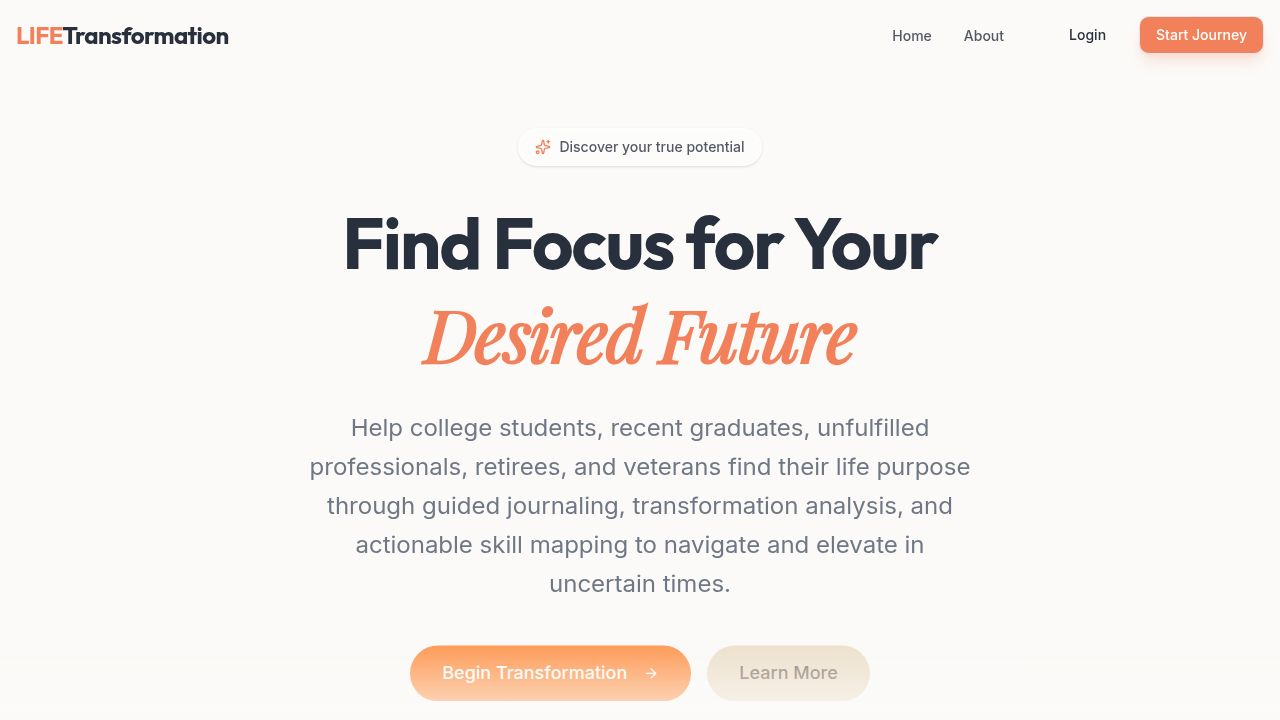
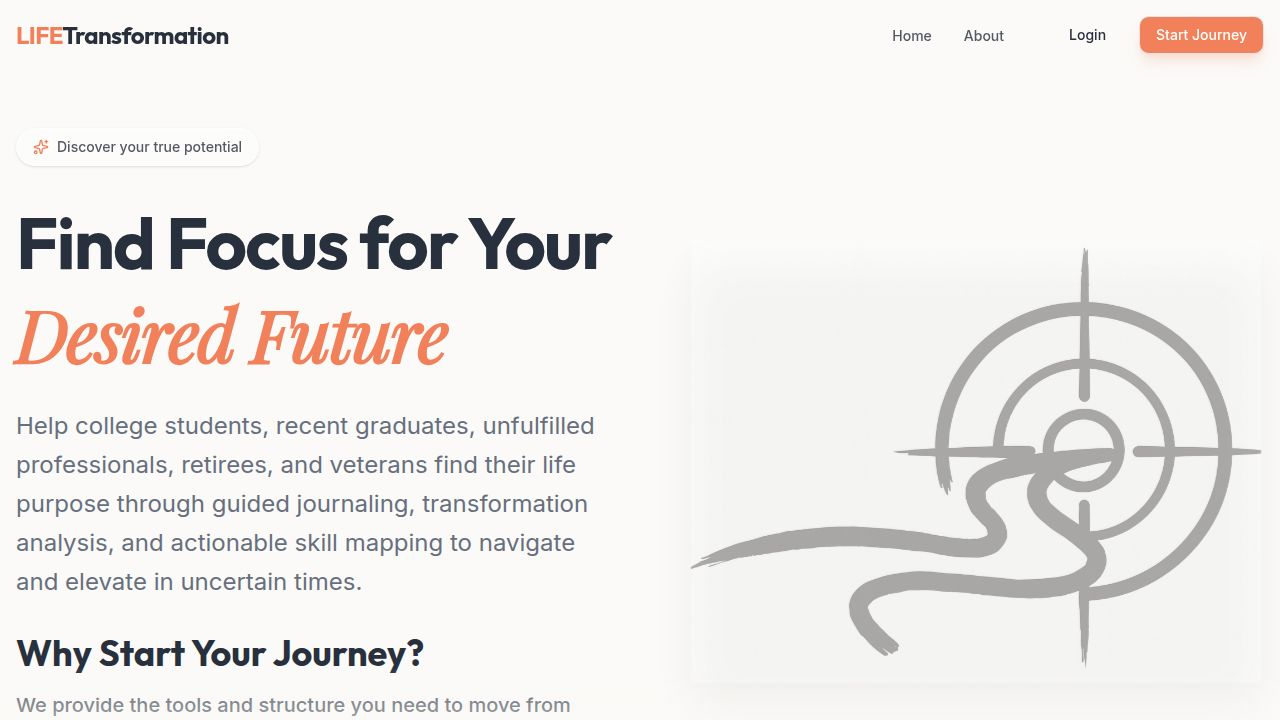
Add image to the right of the "Find focus for your Desired future" section
Update the hero section to a two-column layout, placing the new image to the right of the existing text content and ensuring proper vertical alignment.

Replit-Commit-Author: Agent
Replit-Commit-Session-Id: 2f27e978-f5d9-495f-af94-c9a188f07dc2
Replit-Commit-Checkpoint-Type: full_checkpoint
Replit-Commit-Event-Id: c009f03a-cdc6-4d68-bc0a-51d650e34104
Replit-Commit-Screenshot-Url: https://storage.googleapis.com/screenshot-production-us-central1/e830f26d-e299-42ff-93b1-da7f363f46a7/2f27e978-f5d9-495f-af94-c9a188f07dc2/bsSmAo3
Replit-Helium-Checkpoint-Created: true

diff --git a/client/src/components/hero.tsx b/client/src/components/hero.tsx
@@ -3,11 +3,12 @@ import { motion } from "framer-motion";
 import { ArrowRight, Sparkles } from "lucide-react";
 import { Link } from "wouter";
 import heroBg from "@assets/generated_images/abstract_sunrise_gradient_background_for_hero_section.png";
+import targetImage from "@assets/frontpagepath-png_1765159562805.png";
 import { cn } from "@/lib/utils";
 
 export function Hero() {
   return (
-    <section className="relative flex items-center pt-32 pb-0 overflow-hidden">
+    <section className="relative flex items-center pt-32 pb-0 overflow-hidden min-h-[90vh]">
       {/* Background */}
       <div className="absolute inset-0 -z-10">
         <img
@@ -19,56 +20,72 @@ export function Hero() {
       </div>
 
       <div className="container mx-auto px-4 relative z-10">
-        <div className="max-w-4xl mx-auto text-center">
-          <motion.div
-            initial={{ opacity: 0, y: 20 }}
-            animate={{ opacity: 1, y: 0 }}
-            transition={{ duration: 0.6, ease: "easeOut" }}
-          >
-            <div className="inline-flex items-center gap-2 px-4 py-2 rounded-full bg-white/40 backdrop-blur-md border border-white/50 shadow-sm mb-8">
-              <Sparkles className="w-4 h-4 text-primary" />
-              <span className="text-sm font-medium text-foreground/80">
-                Discover your true potential
-              </span>
-            </div>
-          </motion.div>
+        <div className="flex flex-col lg:flex-row items-center gap-12">
+          <div className="lg:w-1/2 text-left">
+            <motion.div
+              initial={{ opacity: 0, y: 20 }}
+              animate={{ opacity: 1, y: 0 }}
+              transition={{ duration: 0.6, ease: "easeOut" }}
+            >
+              <div className="inline-flex items-center gap-2 px-4 py-2 rounded-full bg-white/40 backdrop-blur-md border border-white/50 shadow-sm mb-8">
+                <Sparkles className="w-4 h-4 text-primary" />
+                <span className="text-sm font-medium text-foreground/80">
+                  Discover your true potential
+                </span>
+              </div>
+            </motion.div>
 
-          <motion.h1
-            initial={{ opacity: 0, y: 20 }}
-            animate={{ opacity: 1, y: 0 }}
-            transition={{ duration: 0.6, delay: 0.1, ease: "easeOut" }}
-            className="text-5xl md:text-7xl font-heading font-bold leading-tight tracking-tight text-foreground mb-6"
-          >
-            Find Focus for Your <br />
-            <span className="text-primary italic font-serif">Desired Future</span>
-          </motion.h1>
+            <motion.h1
+              initial={{ opacity: 0, y: 20 }}
+              animate={{ opacity: 1, y: 0 }}
+              transition={{ duration: 0.6, delay: 0.1, ease: "easeOut" }}
+              className="text-5xl md:text-7xl font-heading font-bold leading-tight tracking-tight text-foreground mb-6"
+            >
+              Find Focus for Your <br />
+              <span className="text-primary italic font-serif">Desired Future</span>
+            </motion.h1>
 
-          <motion.p
-            initial={{ opacity: 0, y: 20 }}
-            animate={{ opacity: 1, y: 0 }}
-            transition={{ duration: 0.6, delay: 0.2, ease: "easeOut" }}
-            className="text-xl text-muted-foreground md:text-2xl max-w-2xl mx-auto mb-8 leading-relaxed"
-          >
-            Help college students, recent graduates, unfulfilled professionals, retirees, and veterans find their life purpose through guided journaling, transformation analysis, and actionable skill mapping to navigate and elevate in uncertain times.
-          </motion.p>
+            <motion.p
+              initial={{ opacity: 0, y: 20 }}
+              animate={{ opacity: 1, y: 0 }}
+              transition={{ duration: 0.6, delay: 0.2, ease: "easeOut" }}
+              className="text-xl text-muted-foreground md:text-2xl max-w-2xl mb-8 leading-relaxed"
+            >
+              Help college students, recent graduates, unfulfilled professionals, retirees, and veterans find their life purpose through guided journaling, transformation analysis, and actionable skill mapping to navigate and elevate in uncertain times.
+            </motion.p>
 
-          <motion.h2
-            initial={{ opacity: 0, y: 20 }}
-            animate={{ opacity: 1, y: 0 }}
-            transition={{ duration: 0.6, delay: 0.22, ease: "easeOut" }}
-            className="text-3xl md:text-4xl font-heading font-bold text-foreground mb-4"
-          >
-            Why Start Your Journey?
-          </motion.h2>
+            <motion.h2
+              initial={{ opacity: 0, y: 20 }}
+              animate={{ opacity: 1, y: 0 }}
+              transition={{ duration: 0.6, delay: 0.22, ease: "easeOut" }}
+              className="text-3xl md:text-4xl font-heading font-bold text-foreground mb-4"
+            >
+              Why Start Your Journey?
+            </motion.h2>
 
-          <motion.p
-            initial={{ opacity: 0, y: 20 }}
-            animate={{ opacity: 1, y: 0 }}
-            transition={{ duration: 0.6, delay: 0.25, ease: "easeOut" }}
-            className="text-lg text-foreground/80 font-medium md:text-xl max-w-2xl mx-auto mb-10 leading-relaxed"
-          >
-            We provide the tools and structure you need to move from confusion to clarity.
-          </motion.p>
+            <motion.p
+              initial={{ opacity: 0, y: 20 }}
+              animate={{ opacity: 1, y: 0 }}
+              transition={{ duration: 0.6, delay: 0.25, ease: "easeOut" }}
+              className="text-lg text-foreground/80 font-medium md:text-xl max-w-2xl mb-10 leading-relaxed"
+            >
+              We provide the tools and structure you need to move from confusion to clarity.
+            </motion.p>
+          </div>
+
+          <div className="lg:w-1/2 flex justify-center lg:justify-end">
+            <motion.div
+              initial={{ opacity: 0, scale: 0.8 }}
+              animate={{ opacity: 1, scale: 1 }}
+              transition={{ duration: 0.8, delay: 0.3, ease: "easeOut" }}
+            >
+              <img 
+                src={targetImage} 
+                alt="Path to focus and clarity" 
+                className="w-full max-w-md md:max-w-lg lg:max-w-xl object-contain drop-shadow-2xl"
+              />
+            </motion.div>
+          </div>
         </div>
       </div>
       
